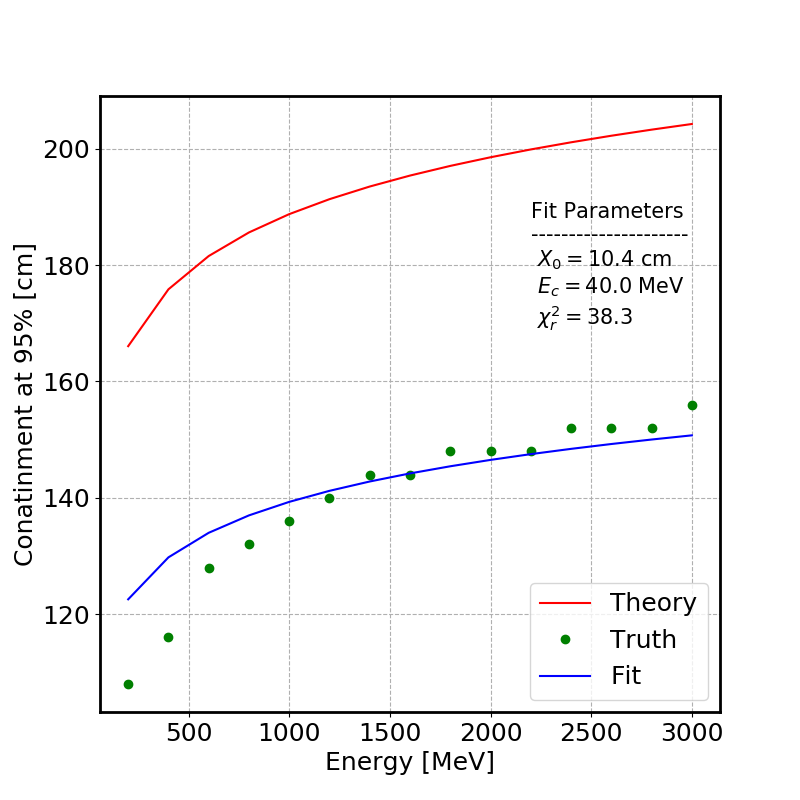
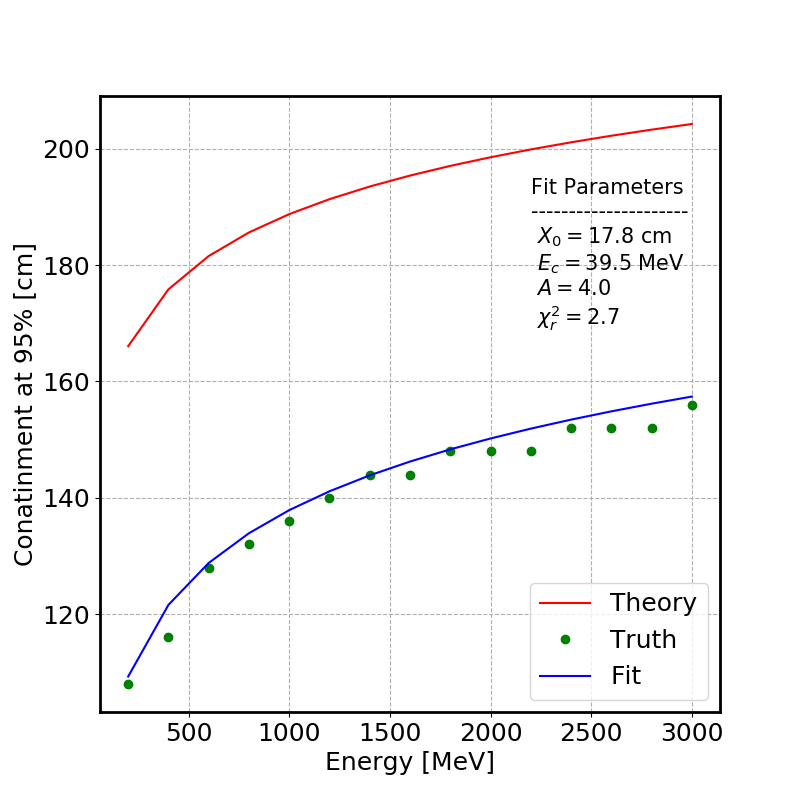
added floating parameter to longitudinal containment

diff --git a/SBND_MolRadReco/Plots.py b/SBND_MolRadReco/Plots.py
@@ -51,15 +51,16 @@ def fTmax_Residual(params, E, y):
     return (y - model)
 
 # Returns the 95% cintainment estimation in theory
-def fLongitudinal(E, E_c, Z, X_0):
-    return fTmax(E, E_c, X_0, 1) + (0.08 * Z + 9.6 ) * X_0 
+def fLongitudinal(E, E_c, Z, X_0, A):
+    return fTmax(E, E_c, X_0, 1) + (0.08 * Z + A ) * X_0 
 
 def fLongitudinal_Residual(params, E, y):
     X_0 = params['X_0']
     E_c = params['E_c']
     Z   = params['Z']
+    A   = params['A']
 
-    model = (np.log(E/E_c) - 1   + 0.08 * Z  + 9.6 ) * X_0
+    model = (np.log(E/E_c) - 1   + 0.08 * Z  + A ) * X_0
 
     return (y - model)
 
@@ -79,7 +80,7 @@ E_c    =  35.2                                # Critical Energy
 
 # The longitudinal profie in truth at 95% containment
 Lon_Truth   = np.array([108, 116, 128,132, 136, 140, 144,144, 148, 148, 148, 152, 152, 152, 156]) + 0 # Shift was 51
-Lon_Theory  = fLongitudinal(Energy, E_c, Z, X_0)
+Lon_Theory  = fLongitudinal(Energy, E_c, Z, X_0, A = 9.6)
 Lon_Ratio   = Lon_Theory / Lon_Truth
 
 # create a set of Parameters
@@ -87,6 +88,7 @@ p_Lon = Parameters()
 p_Lon.add('X_0', value = X_0, min = 0,   max = 20,  vary = True)
 p_Lon.add('E_c', value = E_c, min = 20,  max = 40,  vary = True)
 p_Lon.add('Z',   value = Z,  vary = False)
+p_Lon.add('A',   value = 9.6, vary = True) # Floating value in formula
 
 
 # Do fit, here with leastsq model
@@ -103,12 +105,13 @@ print "===== ===================== ===== \n\n"
  
 X_0_fit = fitresult_Lon.params['X_0'].value
 E_c_fit = fitresult_Lon.params['E_c'].value 
+A_fit = fitresult_Lon.params['A'].value 
 
 # Generate the fit to plot 
-Lon_Truth_fit = fLongitudinal(Energy, E_c, Z, X_0_fit)
+Lon_Truth_fit = fLongitudinal(Energy, E_c, Z, X_0_fit, A_fit)
 
 # Create a string for displaing on the plot
-textstr_Lon = 'Fit Parameters \n---------------------\n $X_0=%.1f$ cm \n $ E_c=%.1f$ MeV \n $\chi_r^2=%.1f$ \n' % (X_0_fit, E_c_fit,fitresult_Lon.redchi )
+textstr_Lon = 'Fit Parameters \n---------------------\n $X_0=%.1f$ cm \n $ E_c=%.1f$ MeV \n $A =%.1f$ \n $\chi_r^2=%.1f$ \n' % (X_0_fit, E_c_fit, A_fit, fitresult_Lon.redchi )
 
 
 # =+=++=+=+=++=+=+=++=+=+=++=+=+=++=+=+=++=+=+=++=+=+=++=+=+=++=+
@@ -166,6 +169,8 @@ R_m_3D_2   = np.array([23.1, 22.2, 23, 22.7, 22.4, 22.4, 22.4, 22.8, 22.3, 22.5,
 R_m_PDG    = 8.5  # PDG and Amaldi Definition of Moliere Radius
 R_m_Fabjan = 11   # Fabjan and Amaldi Definition of Moliere Radius
 
+Err_R_m_3D = np.array([0.3, 0.1, 0.2, 0.1, 0.2, 0.1, 0.1, 0.1, 0.1, 0.1, 0.1, 0.1, 0.1, 0.1, 0.1]) # Errors based on std from rm sets of 100 events 
+
 # LArIAT in SBND Moliere Radius
 R_m_LArIAT_SBND_3D = np.array([10.2, 9.5, 9.3, 8.8, 8.2, 8.2, 8, 7.9, 7.7, 7.7, 7.6, 7.4, 7.4, 7.2, 7.3])
 
@@ -216,7 +221,8 @@ plt.savefig("./Plots/Lon95%_Ratio.png", dpi=figqual)
 # ----------------------- Section 2: Moliere Radius --------------------
 
 plt.figure(4)
-plt.plot(Energy , R_m_3D , 'ro',   label = 'Truth')
+plt.errorbar(Energy , R_m_3D ,Err_R_m_3D, fmt='ro',   label = 'Truth')
+#plt.plot(Energy , R_m_3D ,'ro',   label = 'Truth')
 plt.axhline(y=R_m_Fabjan, color='b', linestyle='--', label = "Fabjan+ Amaldi")
 plt.axhline(y=R_m_PDG, color='k', linestyle='--', label = "PDG + Amaldi")
 plt.ylabel("Moliere Radius [cm]")
@@ -227,6 +233,7 @@ plt.legend(bbox_to_anchor=(0., 1.02, 1., .102), loc=3,
 plt.savefig("./Plots/Moliere_Radius_SBND.png", dpi=figqual)
 
 plt.figure(5)
+#plt.errorbar(Energy , 2 * R_m_3D ,2 * Err_R_m_3D, fmt='ro',   label = 'Truth')
 plt.plot(Energy , 2 * R_m_3D , 'go',   label = 'Truth (2 * 90% Containment)')
 plt.plot(Energy , R_m_3D_2 , 'ro',   label = 'Truth (95% Containment)')
 plt.axhline(y=2 * R_m_Fabjan, color='b', linestyle='--', label = "Fabjan + Amaldi")
